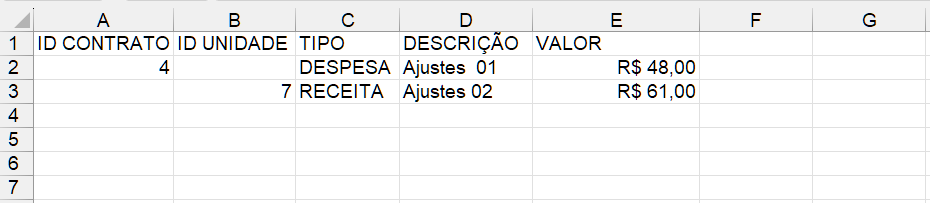
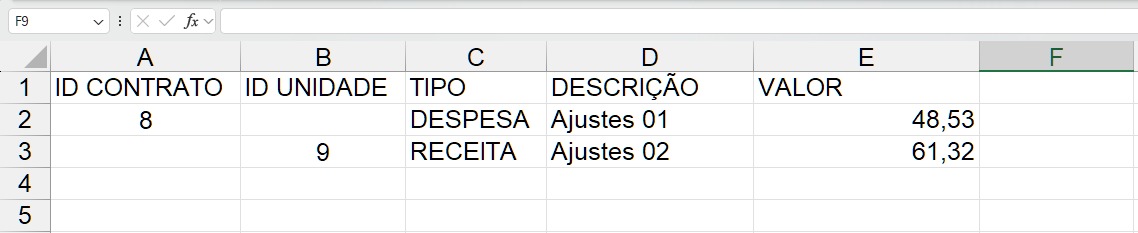
Correções de imagem

diff --git a/erp-v2/funcionalidades/controle_unidades/importar_movimentacoes_controle_unidade.md b/erp-v2/funcionalidades/controle_unidades/importar_movimentacoes_controle_unidade.md
@@ -12,13 +12,17 @@ Clicando nele uma nova janela será mostrada para você solicitando que envie um
 
 ![](/erp-v2/assets/funcionalidades/controle_unidades/aba_contrato_btn_importar_janela.png)
 
-A estrutura de informações da planilha não é complexa, sendo somente cinco colunas e algumas informações como **ID contrato** e **ID unidade** sendo necessárias como identificador para o tipo de lançamento receita ou despesa.
+A estrutura de informações da planilha não é complexa, sendo somente cinco colunas e algumas informações como **ID contrato** e **ID unidade** sendo necessárias como identificador para o tipo de lançamento receita ou despesa. Muita atenção para os valores, não é necessário a utilização do cifrão, o sistema fará a conversão automaticamente, quando ler a planilha enviada.
 
-Observe abaixo o exemplo que utilizaremos.
+{% hint style="info" %}
+Você pdoe baixar o modelo desta planilha. [**`PLANILHA TESTE CONTRATO.xlsx`**](/erp-v2/assets/PLANILHA%20TESTE%20CONTRATO.xlsx)
+{% endhint %}
+
+Observe abaixo o exemplo de planilha que utilizaremos.
 
 ![Modelo de planilha com preenchimento de exemplo](/erp-v2/assets/funcionalidades/controle_unidades/aba_contrato_modelo_planilha.png)
 
-Para nosso exemplo, temos duas unidade com contrato cadastradas, unidade A e unidade B. Iremos usar a planilha para processar algumas movimentações para estas unidades.
+Para nosso exemplo, temos duas unidades com contrato cadastradas, UNIDADE A e UNIDADE B. Iremos usar a planilha para processar algumas movimentações para estas unidades.
 
 Observe o procedimento passo a passo.
 
